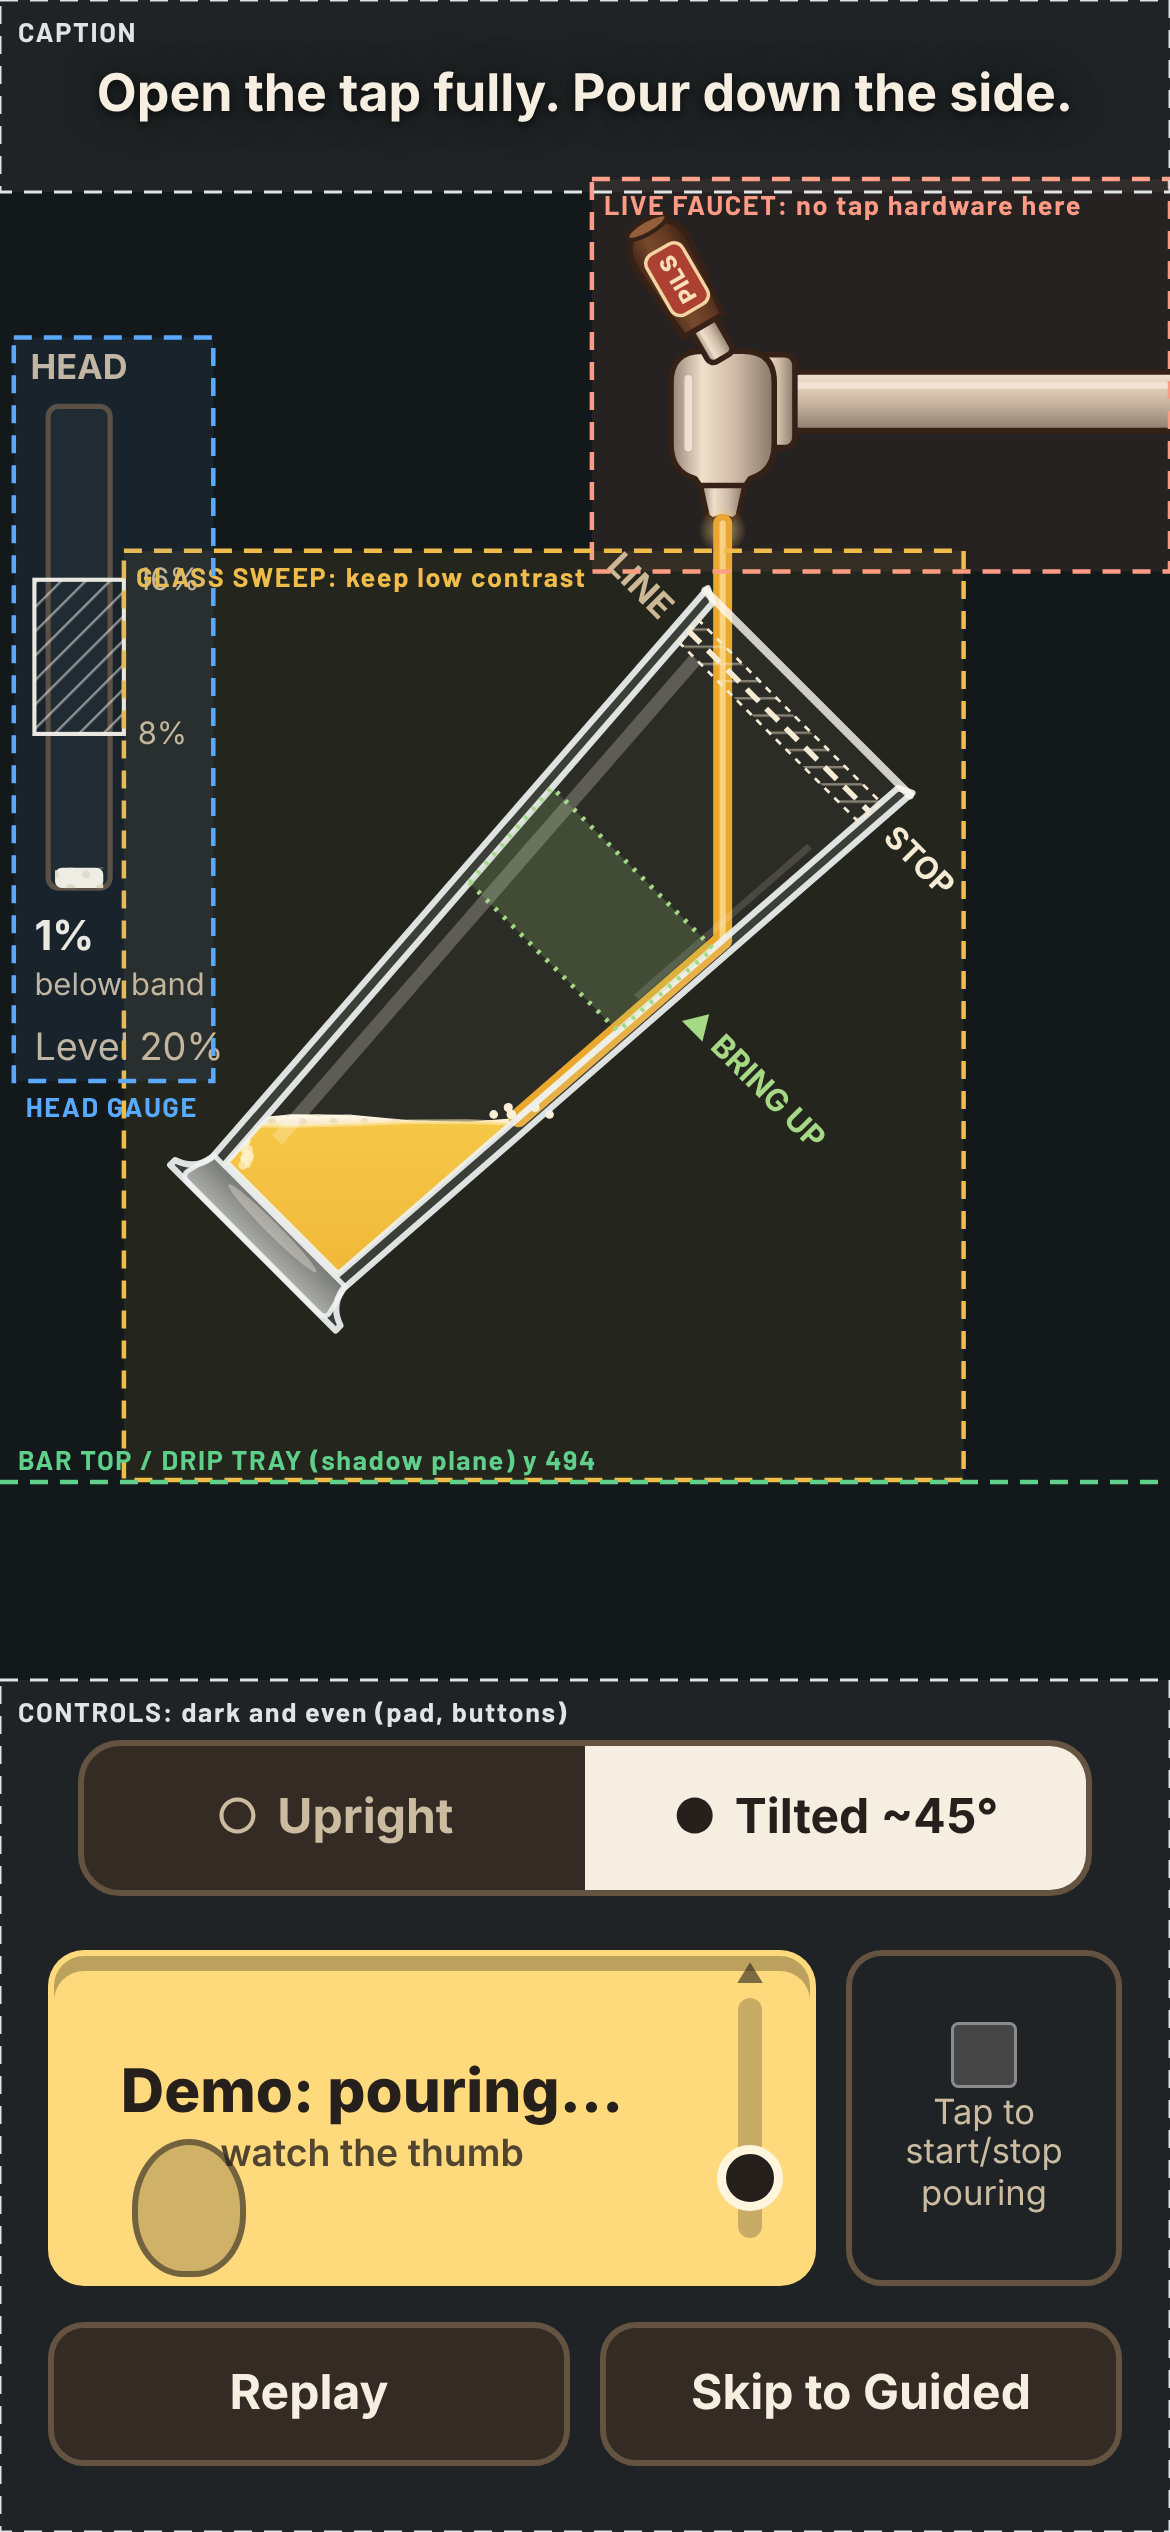
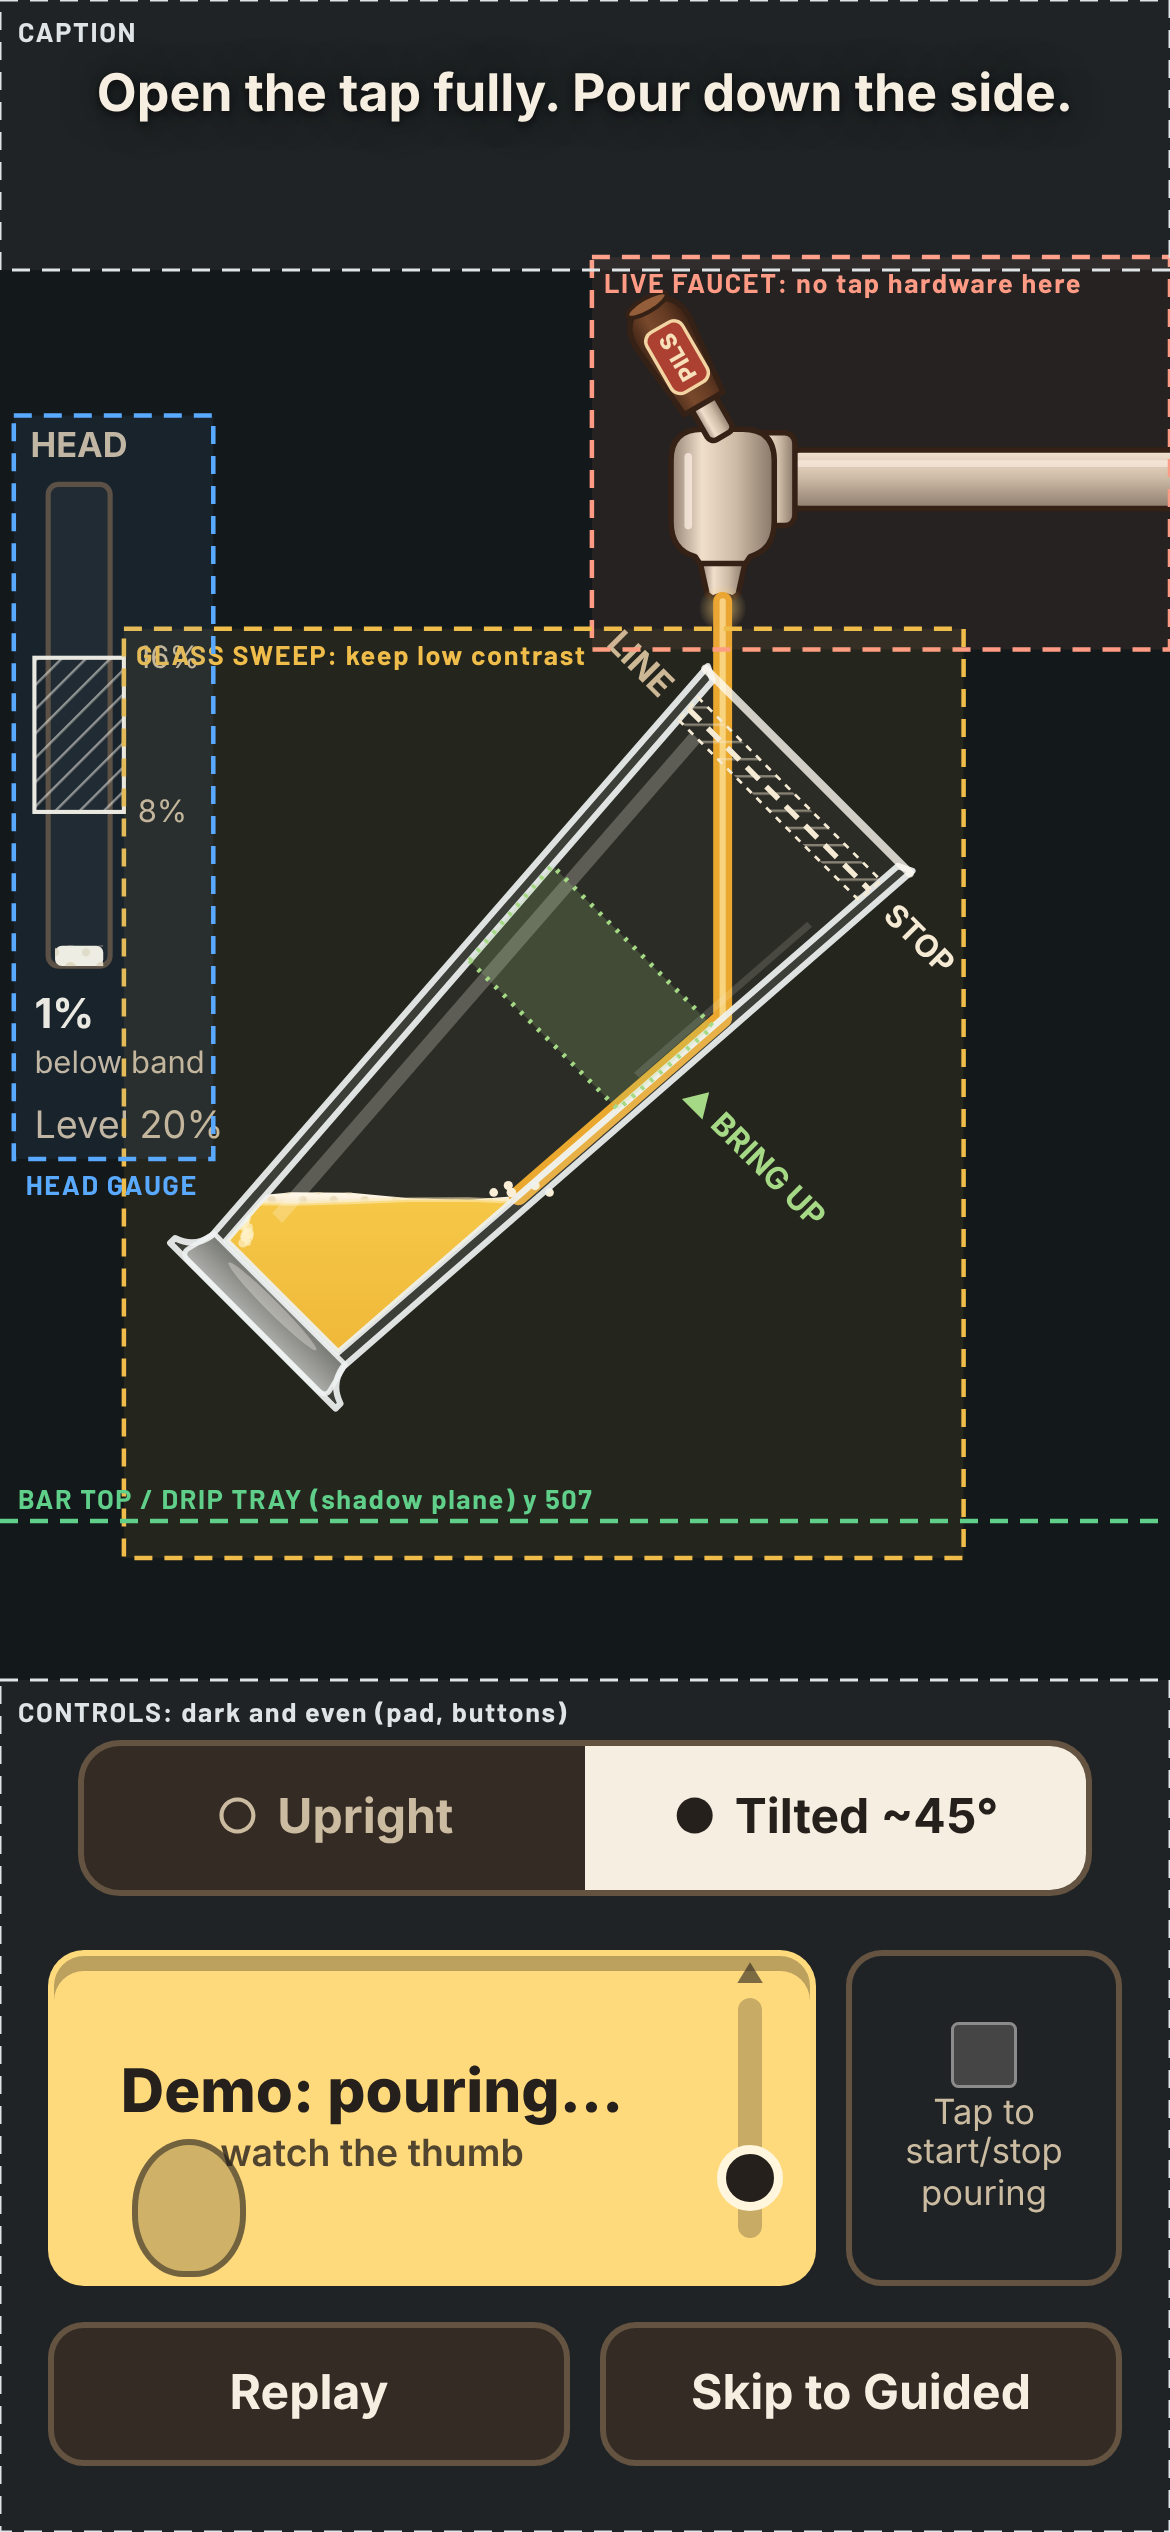
M2 round 2: rest the glass on the revision 2 tray; retouch brief
- composite.html: frame layout moves the stage down 26 px so the upright
  glass base (y 506) rests on the drip tray's top face; contact-shadow
  plane at y 507. Layout only; the station itself is unchanged.
- Regenerated the backdrop template for the new layout.
- Art brief: revision 3 retouch list (dim tray, clear gauge corner, calm
  field behind the faucet, softer pendant) with updated coordinates.

Claude-Session: https://claude.ai/code/session_015ZkLHiwjAQ1ocskLp6ToQ8

Changed region(s): [[0.0, 0.0624, 1.0, 0.624]]

diff --git a/design/composite.html b/design/composite.html
@@ -117,8 +117,10 @@
   'use strict';
   const W = 390, H = 844;
   // Fixed frame layout (a proposal for M5, not the current station layout):
-  // the scene spans the full width; the bar top sits at y 494, the pad below 560.
-  const LAYOUT = { stageTop: 64, stageHeight: 487, barY: 494, controlsTop: 560 };
+  // the scene spans the full width, the pad sits below 560. Round 2: the
+  // stage moved down 26 px so the upright glass (base at y 506) rests on the
+  // revision 2 drip tray's top face; barY is that resting plane.
+  const LAYOUT = { stageTop: 90, stageHeight: 487, barY: 507, controlsTop: 560 };
   const BACKDROPS = { r2: 'backdrops/pilsner-r2.png', temp: 'backdrops/temp-pilsner.svg', flat: null, checker: null };
   // Warm grade: pulls the cool white glass highlights and the cream foam
   // toward the amber room light, without touching the training overlays.

diff --git a/docs/art-brief-pilsner-backdrop.md b/docs/art-brief-pilsner-backdrop.md
@@ -96,3 +96,28 @@ The game art stays vector. Page-side blends (warm grade, contact shadows,
 backdrop blur/dim/vignette, a softer glass edge) are being tested, but the
 backdrop should do most of the matching. If a requirement conflicts with the
 brand look, say so instead of quietly working around it.
+
+## Revision 3: light retouch of revision 2
+
+Revision 2 (`design/backdrops/pilsner-r2.png`) met most of the brief: quiet
+dark zone behind the glass, beer the brightest amber, soft room, faucet
+anchored on the pillar. The stage now sits 26 px lower in the frame so the
+upright glass rests on revision 2's tray, so **keep the composition exactly
+as it is** (same camera, tray, pillar, sign size) and retouch only:
+
+1. **Drip tray:** dim the copper highlights across the tray and its front
+   edge; keep a soft warm pool only under the glass (centred x 241). No
+   bright full-width strip.
+2. **Head gauge corner** (x 0-75, y 131-391): remove or darken the hanging
+   plant there, and move the Riverside sign right so its left edge is past
+   x 85 (or darken its left third). The gauge's labels must read cleanly.
+3. **Behind the faucet** (x 200-360, y 80-220): dim the bright copper tank
+   highlights and bokeh so the faucet head has a calm, darker field.
+4. **Pendant bulb:** slightly less hot, so it isn't brighter than the beer
+   reads.
+
+Current coordinates (390 x 844 frame, after the 26 px move): nozzle (241,
+200); faucet zone x 195-390, y 81-216; shank exits the right edge at y
+149-169; quiet zone x 40-320, y 206-516; upright glass base y 506, resting
+on the tray's top face; controls below y 560. Same size and format as
+revision 2.

diff --git a/README.md b/README.md
@@ -223,7 +223,8 @@ Nothing in the game changed. These are review pages:
   stand-in. `design/backdrops/pilsner-portrait-template.png` (1170 x 2532,
   3x of the frame) marks what the real one must respect: no tap hardware in
   the live faucet zone (the shank runs off the right edge), a low-contrast
-  glass sweep, the bar top / drip tray at y 494 (the shadow plane), and a dark,
+  glass sweep, the bar top / drip tray at y 507 (the shadow plane; was 494
+  before the round-2 move), and a dark,
   even area below y 560 for the controls.
 - **Frame layout** is a proposal for M5, not the current station layout: the
   scene spans the full width, the caption sits on top and the pad below the
